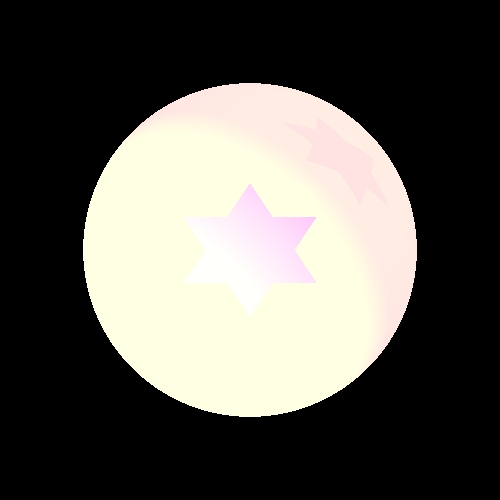
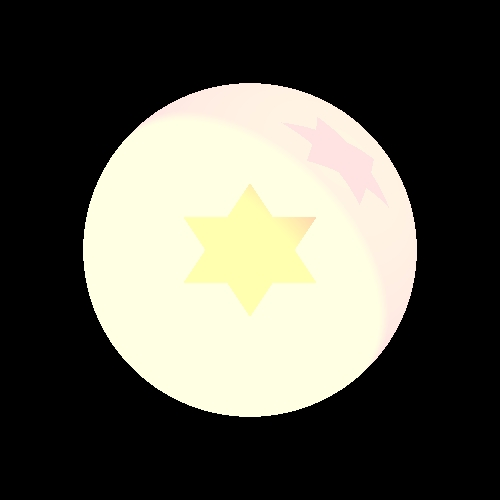
07

Changed region(s): [[0.36, 0.36, 0.63, 0.63]]

diff --git a/src/unittests/CreateImage.java b/src/unittests/CreateImage.java
@@ -10,7 +10,6 @@ import geometries.Cylinder;
 import geometries.Plane;
 import geometries.Sphere;
 import geometries.Triangle;
-import geometries.Tube;
 import primitives.Color;
 import primitives.Material;
 import primitives.Point3D;
@@ -31,14 +30,14 @@ public class CreateImage {
 		scene.setAmbientLight(new AmbientLight(new Color(132, 124, 65), 0));
 
 		scene.addGeometries(
-				new Triangle(new Color(java.awt.Color.BLUE), new Point3D(0, -20, 0), new Point3D(20, 10, 0),
+				new Triangle(new Color(java.awt.Color.black), new Point3D(0, -20, 0), new Point3D(20, 10, 0),
 						new Point3D(-20, 10, 0)),
-				new Triangle(new Color(java.awt.Color.BLUE), new Point3D(0, 20, 0), new Point3D(20, -10, 0),
+				new Triangle(new Color(java.awt.Color.black), new Point3D(0, 20, 0), new Point3D(20, -10, 0),
 						new Point3D(-20, -10, 0)),
 				new Sphere(new Point3D(0, 0, 0), 50, new Color(java.awt.Color.PINK),
 						new Material(0.4, 0.3, 100, 0.3, 0)));
 
-		scene.addLights(new DirectionalLight(new Color(500, 300, 0), new Vector(1, -1, 1)));
+		scene.addLights(new DirectionalLight(new Color(300, 500, 0), new Vector(1, -1, 1)));
 
 		ImageWriter imageWriter = new ImageWriter("createImageTest", 150, 150, 500, 500);
 		Render render = new Render(imageWriter, scene);
@@ -76,10 +75,10 @@ public class CreateImage {
 				new Cylinder(new Ray(new Point3D(0, 50, 0), new Vector(50, -75, 5)), 2, 100,
 						new Color(java.awt.Color.BLUE), new Material(0.4, 0.3, 100, 0, 0)),
 				new Cylinder(new Ray(new Point3D(0, -150, 0), new Vector(0, 1, 0)), 2, 50,
-						new Color(java.awt.Color.BLUE), new Material(0.4, 0.3, 100, 0, 0)),
+						new Color(java.awt.Color.WHITE), new Material(0.4, 0.3, 100, 0, 0)),
 				new Sphere(new Point3D(0, -110, 0), 2, new Color(127, 127, 127), new Material(0.4, 0.3, 100, 0, 0)),
-				new Sphere(new Point3D(0, -100, 0), 5, new Color(127, 127, 127), new Material(0.4, 0.3, 100, 0.1, 0)),
-				new Sphere(new Point3D(0, -100, 0), 9, new Color(127, 127, 127), new Material(0.4, 0.3, 100,0.3, 0)),
+				new Sphere(new Point3D(0, -100, 0), 5, new Color(127, 127, 127), new Material(0.4, 0.3, 100, 1, 0)),
+				new Sphere(new Point3D(0, -100, 0), 9, new Color(127, 127, 127), new Material(0.4, 0.3, 100, 0.3, 0)),
 
 				new Triangle(new Color(116, 122, 99), new Material(0.8, 0.2, 300, 0, 0.3), new Point3D(-150, 150, 150),
 						new Point3D(-70, -70, 50), new Point3D(75, -75, 150)),
@@ -87,7 +86,7 @@ public class CreateImage {
 						new Point3D(150, 150, 150), new Point3D(75, -75, 150)));
 
 		scene.addLights(new DirectionalLight(new Color(48, 170, 176), new Vector(0, -1, 2)),
-				new PointLight(new Color(48, 170, 176), new Point3D(0, -100, 0), 1, 0,0));
+				new PointLight(new Color(103, 110, 13), new Point3D(0, -100, 0), 1, 0, 0));
 
 		ImageWriter imageWriter = new ImageWriter("magenDavid", 250, 250, 500, 500);
 		Render render = new Render(imageWriter, scene);
